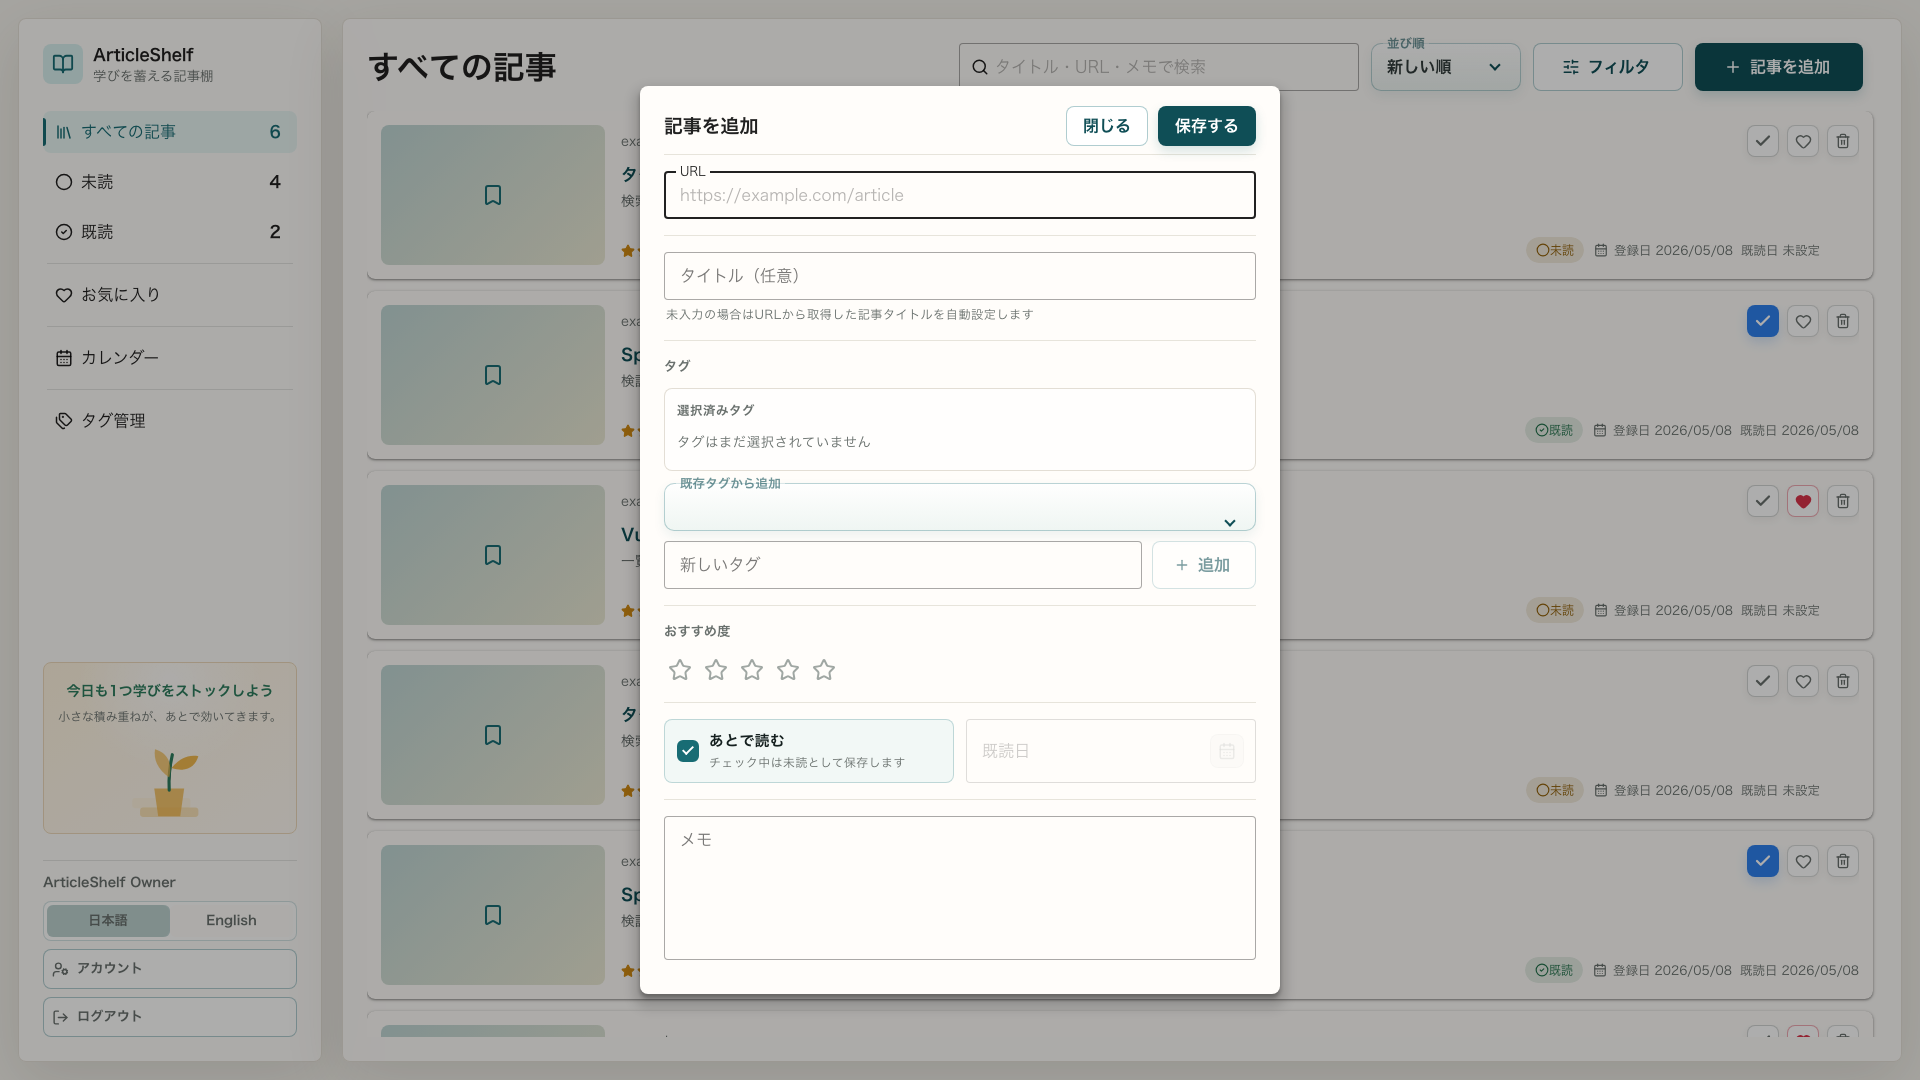
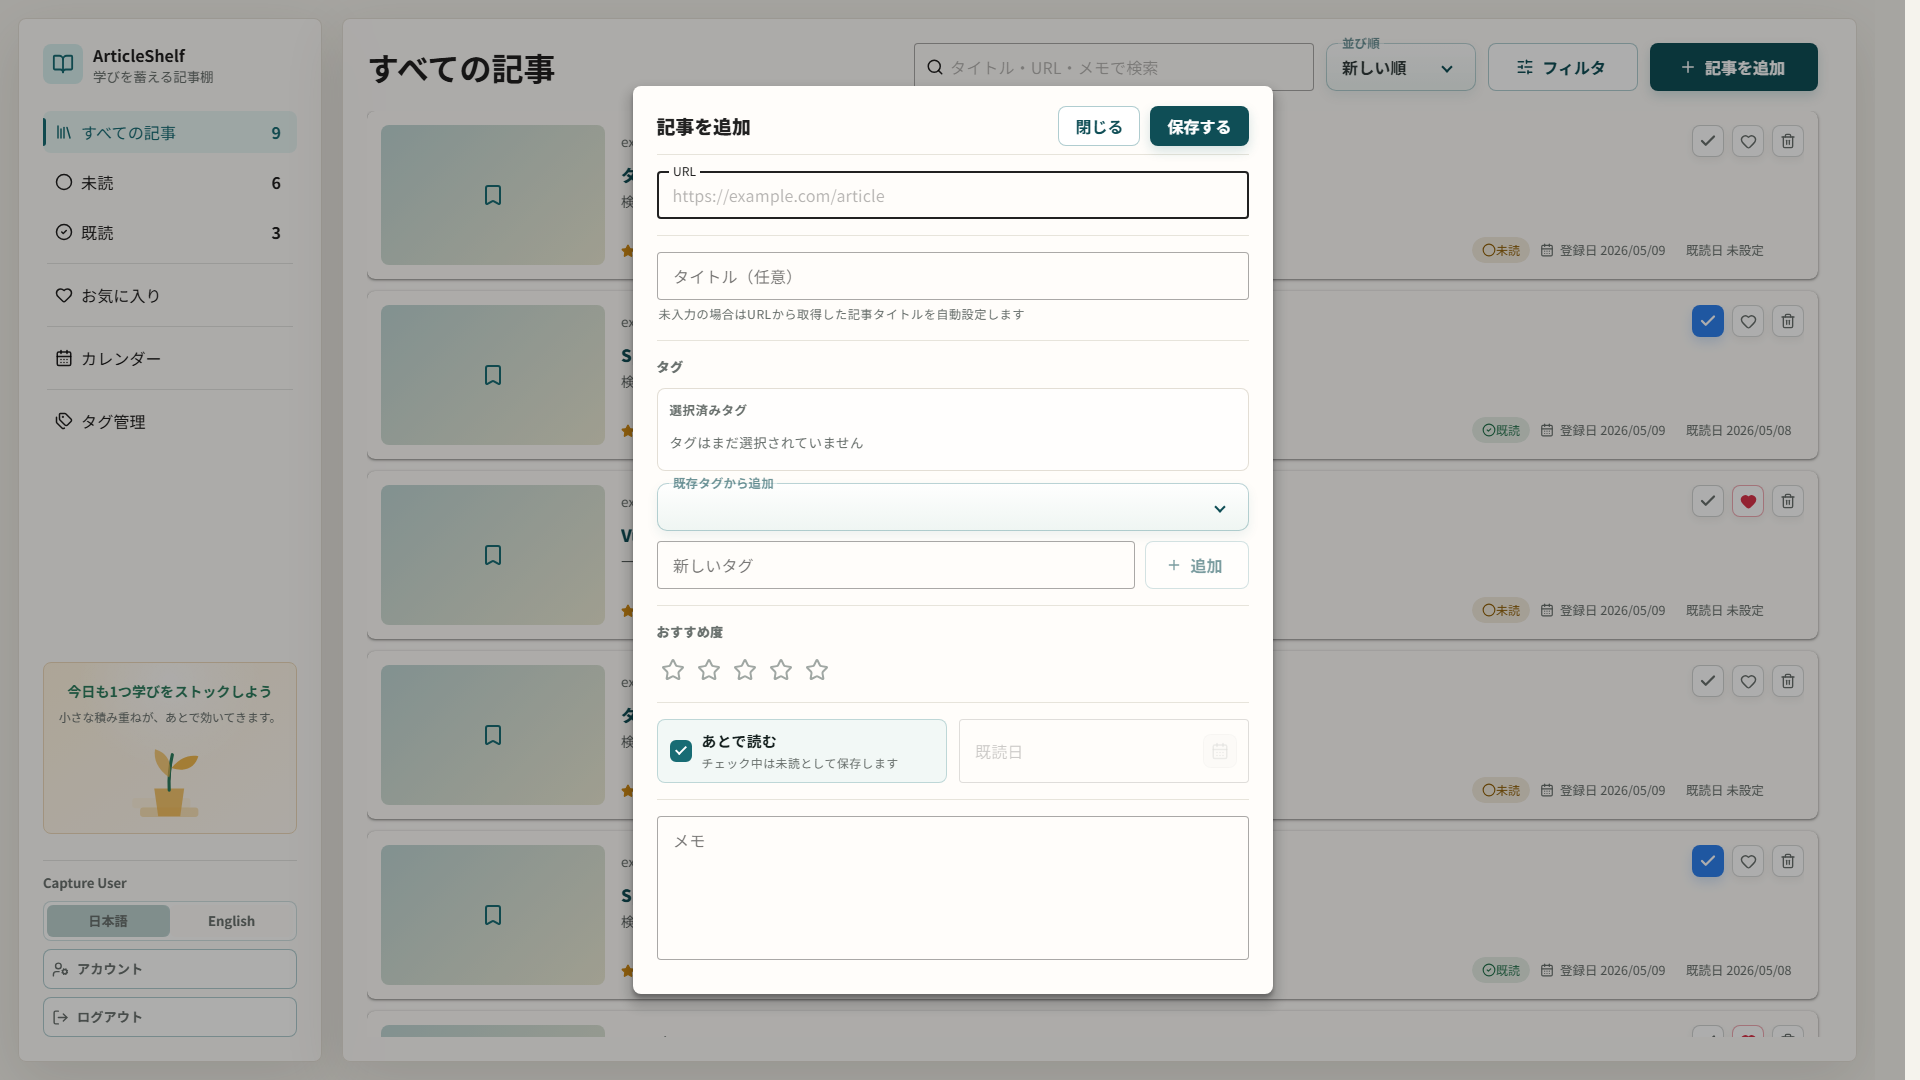
feat: キャプチャ用ユーザーの作成処理を追加し、モーダルのスクリーンショット取得機能を強化

diff --git a/frontend/src/styles/controls.css b/frontend/src/styles/controls.css
@@ -28,20 +28,26 @@
 .articleshelf-select .v-field__append-inner {
   position: relative;
   display: grid;
+  align-self: stretch;
   width: 34px;
   min-width: 34px;
+  min-height: 100%;
   place-items: center;
-  padding-inline-start: 6px;
+  padding: 0;
   color: var(--accent-strong);
 }
 
 .articleshelf-select .v-field__append-inner::after {
+  display: block;
+  position: absolute;
+  top: 50%;
+  left: 50%;
   width: 8px;
   height: 8px;
   border-right: 2px solid currentColor;
   border-bottom: 2px solid currentColor;
   content: "";
-  transform: translateY(-2px) rotate(45deg);
+  transform: translate(-50%, -50%) rotate(45deg);
 }
 
 .articleshelf-select .v-field__append-inner .v-select__menu-icon {
